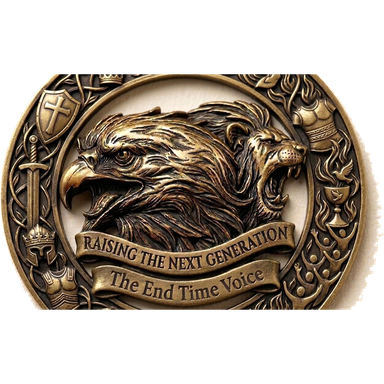
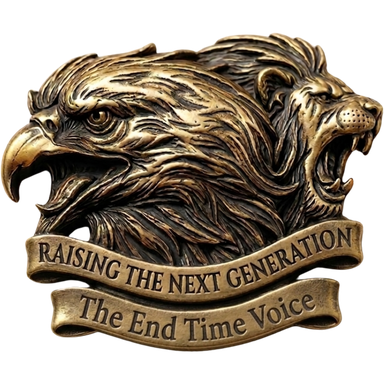
Swap in the ring-less bronze crest
Replaces the earlier crest across the header, footer, favicon,
apple-touch-icon and intro on all six pages.

This version is a better mark than the one it replaces. It arrived whole
rather than as a landscape crop, so nothing runs off the frame, and it
came with a real alpha channel, so no background had to be cut away.
Dropping the outer ring of small symbols is what makes it work at header
size: eagle, lion and two banners is a silhouette that survives being
56px wide, which the ring never did.

Regenerated both files from the 2000px source. crest-mark.png keeps the
natural 1.2:1 proportion for the header; crest-bronze.png is squared for
the footer, intro and icons.

Added ?v= to the crest image URLs. Both files changed content while
keeping their names, and without it anyone who had already loaded the
site would keep seeing the old logo - the browser here served exactly
that stale copy until the parameter was added.

diff --git a/index.html b/index.html
@@ -9,8 +9,8 @@
   <meta name="description" content="Sunday worship 9:00-11:00 AM in Coimbatore. A prophetic church led by Prophet T. Vinoth Kumar. Plan a visit, join the School of Prophets, Healing or Power, or send a prayer request.">
   <meta name="theme-color" content="#0e1626">
 
-  <link rel="icon" href="assets/img/crest-bronze.png">
-  <link rel="apple-touch-icon" href="assets/img/crest-bronze.png">
+  <link rel="icon" href="assets/img/crest-bronze.png?v=25">
+  <link rel="apple-touch-icon" href="assets/img/crest-bronze.png?v=25">
 
   <meta property="og:type" content="website">
   <meta property="og:title" content="INLPM — International New Life Prophetic Ministry, Coimbatore">
@@ -25,7 +25,7 @@
 
   <link href="assets/vendor/bootstrap-icons/bootstrap-icons.css" rel="stylesheet">
   <link href="assets/vendor/glightbox/css/glightbox.min.css" rel="stylesheet">
-  <link href="assets/css/inlpm.css?v=24" rel="stylesheet">
+  <link href="assets/css/inlpm.css?v=25" rel="stylesheet">
 
   <script type="application/ld+json">
   {
@@ -75,7 +75,7 @@
     </div>
 
     <div class="intro-copy">
-      <img class="intro-mark" src="assets/img/crest-bronze.png" alt="" width="384" height="384">
+      <img class="intro-mark" src="assets/img/crest-bronze.png?v=25" alt="" width="384" height="384">
       <p class="intro-verse">
         <span>Equipping every believer as a soldier,</span>
         <span>and preparing the body of Christ</span>
@@ -97,7 +97,7 @@
   <header class="site-header">
     <div class="wrap">
       <a class="brand" href="index.html" aria-label="INLPM home">
-        <img class="brand-emblem" src="assets/img/crest-mark.png" alt="" width="200" height="124">
+        <img class="brand-emblem" src="assets/img/crest-mark.png?v=25" alt="" width="264" height="220">
         <span class="brand-text">
           <span class="brand-mark">INLPM</span>
           <span class="brand-sub">New Life Prophetic Ministry</span>
@@ -882,7 +882,7 @@
       <div class="footer-grid">
 
         <div class="footer-col">
-          <img class="footer-crest" src="assets/img/crest-bronze.png" alt="INLPM crest" width="384" height="384">
+          <img class="footer-crest" src="assets/img/crest-bronze.png?v=25" alt="INLPM crest" width="384" height="384">
           <p class="brand-mark" style="color:var(--on-dark);font-size:1.6rem;margin-bottom:.75rem">INLPM</p>
           <p>New Life Prophetic Ministries,<br>Second Floor, Murugan Bajaj Showroom,<br>Vadamadurai,<br>Coimbatore, Tamil Nadu</p>
           <p style="margin-top:.75rem">
@@ -948,7 +948,7 @@
   <a href="#hero" class="to-top" aria-label="Back to top"><i class="bi bi-arrow-up-short"></i></a>
 
   <script src="assets/vendor/glightbox/js/glightbox.min.js"></script>
-  <script src="assets/js/inlpm.js?v=24"></script>
+  <script src="assets/js/inlpm.js?v=25"></script>
   <script>document.getElementById("year").textContent = new Date().getFullYear();</script>
 
 </body>

diff --git a/2024prophecy.html b/2024prophecy.html
@@ -9,8 +9,8 @@
   <meta name="description" content="Prophetic words released by Prophet T. Vinoth Kumar, International New Life Prophetic Ministry, Coimbatore. The 2024 words, with 2025 and 2026 to follow.">
   <meta name="theme-color" content="#0c0a0d">
 
-  <link rel="icon" href="assets/img/crest-bronze.png">
-  <link rel="apple-touch-icon" href="assets/img/crest-bronze.png">
+  <link rel="icon" href="assets/img/crest-bronze.png?v=25">
+  <link rel="apple-touch-icon" href="assets/img/crest-bronze.png?v=25">
 
   <link rel="preconnect" href="https://fonts.googleapis.com">
   <link rel="preconnect" href="https://fonts.gstatic.com" crossorigin>
@@ -19,7 +19,7 @@
   <link href="assets/vendor/bootstrap-icons/bootstrap-icons.css" rel="stylesheet">
   <link href="assets/vendor/glightbox/css/glightbox.min.css" rel="stylesheet">
 
-  <link href="assets/css/inlpm.css?v=24" rel="stylesheet">
+  <link href="assets/css/inlpm.css?v=25" rel="stylesheet">
 </head>
 
 <body>
@@ -29,7 +29,7 @@
   <header class="site-header header-solid">
     <div class="wrap">
       <a class="brand" href="index.html" aria-label="INLPM home">
-        <img class="brand-emblem" src="assets/img/crest-mark.png" alt="" width="200" height="124">
+        <img class="brand-emblem" src="assets/img/crest-mark.png?v=25" alt="" width="264" height="220">
         <span class="brand-text">
           <span class="brand-mark">INLPM</span>
           <span class="brand-sub">New Life Prophetic Ministry</span>
@@ -143,7 +143,7 @@
       <div class="footer-grid">
 
         <div class="footer-col">
-          <img class="footer-crest" src="assets/img/crest-bronze.png" alt="INLPM crest" width="384" height="384">
+          <img class="footer-crest" src="assets/img/crest-bronze.png?v=25" alt="INLPM crest" width="384" height="384">
           <p class="brand-mark" style="color:var(--on-dark);font-size:1.6rem;margin-bottom:.75rem">INLPM</p>
           <p>New Life Prophetic Ministries,<br>Second Floor, Murugan Bajaj Showroom,<br>Vadamadurai,<br>Coimbatore, Tamil Nadu</p>
           <p style="margin-top:.75rem">
@@ -208,7 +208,7 @@
   <a href="#main" class="to-top" aria-label="Back to top"><i class="bi bi-arrow-up-short"></i></a>
 
   <script src="assets/vendor/glightbox/js/glightbox.min.js"></script>
-  <script src="assets/js/inlpm.js?v=24"></script>
+  <script src="assets/js/inlpm.js?v=25"></script>
   <script>document.getElementById("year").textContent = new Date().getFullYear();</script>
 
 </body>

diff --git a/landc.html b/landc.html
@@ -9,8 +9,8 @@
   <meta name="description" content="You Are More Than a Human by Prophet T. Vinoth Kumar. A book to awaken your spiritual man and transform your mind. International New Life Prophetic Ministry, Coimbatore.">
   <meta name="theme-color" content="#0c0a0d">
 
-  <link rel="icon" href="assets/img/crest-bronze.png">
-  <link rel="apple-touch-icon" href="assets/img/crest-bronze.png">
+  <link rel="icon" href="assets/img/crest-bronze.png?v=25">
+  <link rel="apple-touch-icon" href="assets/img/crest-bronze.png?v=25">
 
   <link rel="preconnect" href="https://fonts.googleapis.com">
   <link rel="preconnect" href="https://fonts.gstatic.com" crossorigin>
@@ -18,7 +18,7 @@
 
   <link href="assets/vendor/bootstrap-icons/bootstrap-icons.css" rel="stylesheet">
 
-  <link href="assets/css/inlpm.css?v=24" rel="stylesheet">
+  <link href="assets/css/inlpm.css?v=25" rel="stylesheet">
 </head>
 
 <body>
@@ -28,7 +28,7 @@
   <header class="site-header header-solid">
     <div class="wrap">
       <a class="brand" href="index.html" aria-label="INLPM home">
-        <img class="brand-emblem" src="assets/img/crest-mark.png" alt="" width="200" height="124">
+        <img class="brand-emblem" src="assets/img/crest-mark.png?v=25" alt="" width="264" height="220">
         <span class="brand-text">
           <span class="brand-mark">INLPM</span>
           <span class="brand-sub">New Life Prophetic Ministry</span>
@@ -206,7 +206,7 @@
       <div class="footer-grid">
 
         <div class="footer-col">
-          <img class="footer-crest" src="assets/img/crest-bronze.png" alt="INLPM crest" width="384" height="384">
+          <img class="footer-crest" src="assets/img/crest-bronze.png?v=25" alt="INLPM crest" width="384" height="384">
           <p class="brand-mark" style="color:var(--on-dark);font-size:1.6rem;margin-bottom:.75rem">INLPM</p>
           <p>New Life Prophetic Ministries,<br>Second Floor, Murugan Bajaj Showroom,<br>Vadamadurai,<br>Coimbatore, Tamil Nadu</p>
           <p style="margin-top:.75rem">
@@ -270,7 +270,7 @@
 
   <a href="#main" class="to-top" aria-label="Back to top"><i class="bi bi-arrow-up-short"></i></a>
 
-  <script src="assets/js/inlpm.js?v=24"></script>
+  <script src="assets/js/inlpm.js?v=25"></script>
   <script>document.getElementById("year").textContent = new Date().getFullYear();</script>
 
 </body>

diff --git a/22.html b/22.html
@@ -9,8 +9,8 @@
   <meta name="description" content="Fifty thoughts from As You Think, You Become by Prophet T. Vinoth Kumar, International New Life Prophetic Ministry, Coimbatore.">
   <meta name="theme-color" content="#0c0a0d">
 
-  <link rel="icon" href="assets/img/crest-bronze.png">
-  <link rel="apple-touch-icon" href="assets/img/crest-bronze.png">
+  <link rel="icon" href="assets/img/crest-bronze.png?v=25">
+  <link rel="apple-touch-icon" href="assets/img/crest-bronze.png?v=25">
 
   <link rel="preconnect" href="https://fonts.googleapis.com">
   <link rel="preconnect" href="https://fonts.gstatic.com" crossorigin>
@@ -18,7 +18,7 @@
 
   <link href="assets/vendor/bootstrap-icons/bootstrap-icons.css" rel="stylesheet">
 
-  <link href="assets/css/inlpm.css?v=24" rel="stylesheet">
+  <link href="assets/css/inlpm.css?v=25" rel="stylesheet">
 </head>
 
 <body>
@@ -28,7 +28,7 @@
   <header class="site-header header-solid">
     <div class="wrap">
       <a class="brand" href="index.html" aria-label="INLPM home">
-        <img class="brand-emblem" src="assets/img/crest-mark.png" alt="" width="200" height="124">
+        <img class="brand-emblem" src="assets/img/crest-mark.png?v=25" alt="" width="264" height="220">
         <span class="brand-text">
           <span class="brand-mark">INLPM</span>
           <span class="brand-sub">New Life Prophetic Ministry</span>
@@ -771,7 +771,7 @@
       <div class="footer-grid">
 
         <div class="footer-col">
-          <img class="footer-crest" src="assets/img/crest-bronze.png" alt="INLPM crest" width="384" height="384">
+          <img class="footer-crest" src="assets/img/crest-bronze.png?v=25" alt="INLPM crest" width="384" height="384">
           <p class="brand-mark" style="color:var(--on-dark);font-size:1.6rem;margin-bottom:.75rem">INLPM</p>
           <p>New Life Prophetic Ministries,<br>Second Floor, Murugan Bajaj Showroom,<br>Vadamadurai,<br>Coimbatore, Tamil Nadu</p>
           <p style="margin-top:.75rem">
@@ -835,7 +835,7 @@
 
   <a href="#main" class="to-top" aria-label="Back to top"><i class="bi bi-arrow-up-short"></i></a>
 
-  <script src="assets/js/inlpm.js?v=24"></script>
+  <script src="assets/js/inlpm.js?v=25"></script>
   <script>document.getElementById("year").textContent = new Date().getFullYear();</script>
 
 </body>

diff --git a/youaremore.html b/youaremore.html
@@ -9,8 +9,8 @@
   <meta name="description" content="Read You Are More Than a Human by Prophet T. Vinoth Kumar, chapter by chapter.">
   <meta name="theme-color" content="#0c0a0d">
 
-  <link rel="icon" href="assets/img/crest-bronze.png">
-  <link rel="apple-touch-icon" href="assets/img/crest-bronze.png">
+  <link rel="icon" href="assets/img/crest-bronze.png?v=25">
+  <link rel="apple-touch-icon" href="assets/img/crest-bronze.png?v=25">
 
   <link rel="preconnect" href="https://fonts.googleapis.com">
   <link rel="preconnect" href="https://fonts.gstatic.com" crossorigin>
@@ -18,7 +18,7 @@
 
   <link href="assets/vendor/bootstrap-icons/bootstrap-icons.css" rel="stylesheet">
 
-  <link href="assets/css/inlpm.css?v=24" rel="stylesheet">
+  <link href="assets/css/inlpm.css?v=25" rel="stylesheet">
 </head>
 
 <body>
@@ -28,7 +28,7 @@
   <header class="site-header header-solid">
     <div class="wrap">
       <a class="brand" href="index.html" aria-label="INLPM home">
-        <img class="brand-emblem" src="assets/img/crest-mark.png" alt="" width="200" height="124">
+        <img class="brand-emblem" src="assets/img/crest-mark.png?v=25" alt="" width="264" height="220">
         <span class="brand-text">
           <span class="brand-mark">INLPM</span>
           <span class="brand-sub">New Life Prophetic Ministry</span>
@@ -98,7 +98,7 @@
       <div class="footer-grid">
 
         <div class="footer-col">
-          <img class="footer-crest" src="assets/img/crest-bronze.png" alt="INLPM crest" width="384" height="384">
+          <img class="footer-crest" src="assets/img/crest-bronze.png?v=25" alt="INLPM crest" width="384" height="384">
           <p class="brand-mark" style="color:var(--on-dark);font-size:1.6rem;margin-bottom:.75rem">INLPM</p>
           <p>New Life Prophetic Ministries,<br>Second Floor, Murugan Bajaj Showroom,<br>Vadamadurai,<br>Coimbatore, Tamil Nadu</p>
           <p style="margin-top:.75rem">
@@ -162,7 +162,7 @@
 
   <a href="#main" class="to-top" aria-label="Back to top"><i class="bi bi-arrow-up-short"></i></a>
 
-  <script src="assets/js/inlpm.js?v=24"></script>
+  <script src="assets/js/inlpm.js?v=25"></script>
   <script>
     document.getElementById("year").textContent = new Date().getFullYear();
 

diff --git a/landc1.html b/landc1.html
@@ -15,7 +15,7 @@
        landc.html — this is kept only so old links still land somewhere. -->
   <link rel="canonical" href="https://www.inlpm.com/landc.html">
 
-  <link rel="icon" href="assets/img/crest-bronze.png">
+  <link rel="icon" href="assets/img/crest-bronze.png?v=25">
 
   <link rel="preconnect" href="https://fonts.googleapis.com">
   <link rel="preconnect" href="https://fonts.gstatic.com" crossorigin>
@@ -23,7 +23,7 @@
 
   <link href="assets/vendor/bootstrap-icons/bootstrap-icons.css" rel="stylesheet">
 
-  <link href="assets/css/inlpm.css?v=24" rel="stylesheet">
+  <link href="assets/css/inlpm.css?v=25" rel="stylesheet">
 </head>
 
 <body>
@@ -33,7 +33,7 @@
   <header class="site-header header-solid">
     <div class="wrap">
       <a class="brand" href="index.html" aria-label="INLPM home">
-        <img class="brand-emblem" src="assets/img/crest-mark.png" alt="" width="200" height="124">
+        <img class="brand-emblem" src="assets/img/crest-mark.png?v=25" alt="" width="264" height="220">
         <span class="brand-text">
           <span class="brand-mark">INLPM</span>
           <span class="brand-sub">New Life Prophetic Ministry</span>
@@ -61,7 +61,7 @@
       <div class="footer-grid">
 
         <div class="footer-col">
-          <img class="footer-crest" src="assets/img/crest-bronze.png" alt="INLPM crest" width="384" height="384">
+          <img class="footer-crest" src="assets/img/crest-bronze.png?v=25" alt="INLPM crest" width="384" height="384">
           <p class="brand-mark" style="color:var(--on-dark);font-size:1.6rem;margin-bottom:.75rem">INLPM</p>
           <p>New Life Prophetic Ministries,<br>Second Floor, Murugan Bajaj Showroom,<br>Vadamadurai,<br>Coimbatore, Tamil Nadu</p>
           <p style="margin-top:.75rem">
